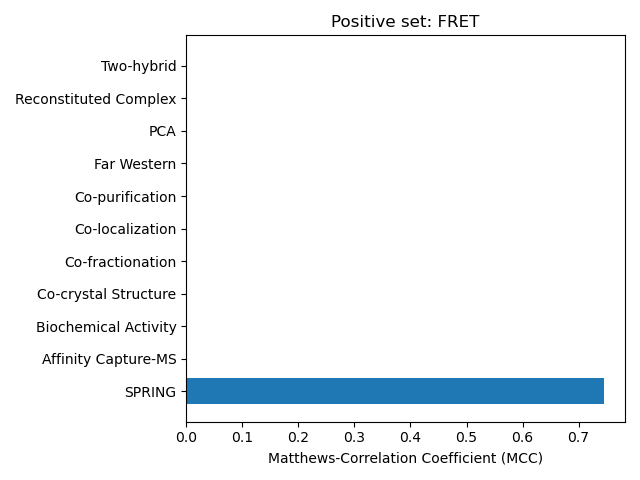
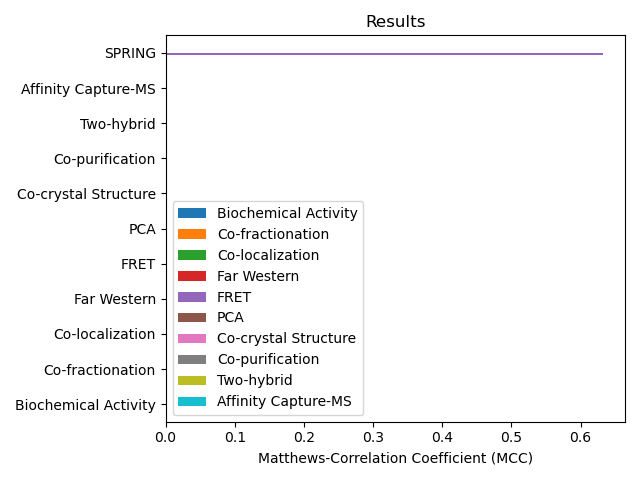
Create mcc plot with all available methods

diff --git a/spring_mcc.py b/spring_mcc.py
@@ -1,9 +1,20 @@
 #! /usr/bin/env python
 import argparse
 import math
+import pandas as pd
 from os.path import isfile
 import re
-from matplotlib import pyplot as plt
+
+METHODS = ["Biochemical Activity",
+           "Co-fractionation",
+           "Co-localization",
+           "Far Western",
+           "FRET",
+           "PCA",
+           "Co-crystal Structure",
+           "Co-purification",
+           "Two-hybrid",
+           "Affinity Capture-MS"]
 
 
 def getIds(rawIds):
@@ -251,56 +262,57 @@ def main(args):
         filterB = filterA
 
     # identify biogrid filter options
-    filterValues = list()
-    filterValues.append([11, args.method])
+    performance = dict()
+    for methodReference in METHODS:
 
-    # process biogrid database
-    print("Loading positive set from BioGRID file...")
-    positive, positiveCount = getReference(args.biogrid, aCol=23, bCol=26,
-                                           separator="\t", filterA=filterA,
-                                           filterB=filterB, skipFirstLine=True,
-                                           filterValues=filterValues)
+        # process biogrid database
+        print("Loading positive set from BioGRID file (%s)..." % methodReference)
+        filterValues = [[11, methodReference]]
+        positive, positiveCount = getReference(args.biogrid, aCol=23, bCol=26,
+                                               separator="\t", filterA=filterA,
+                                               filterB=filterB, skipFirstLine=True,
+                                               filterValues=filterValues)
 
-    # estimate negative set
-    negative = getNegativeSet(args, filterA, filterB, positiveCount)
+        # estimate negative set
+        negative = getNegativeSet(args, filterA, filterB, positiveCount)
 
-    # get prediction results
-    print("Loading prediction file...")
-    prediction, _ = getReference(args.input, scoreCol=2, minScore=0.8)
-    mcc = getMCC(prediction, positive, positiveCount, negative)
-    yValues = [mcc]
-    yTicks = ["SPRING"]
+        # evaluate other methods
+        yValues = list()
+        for method in METHODS:
+            if methodReference != method:
+                print("Method: %s" % method)
+                filterValues = [[11, method]]
+                prediction, _ = getReference(args.biogrid, aCol=23, bCol=26,
+                                             separator="\t", filterA=filterA,
+                                             filterB=filterB, skipFirstLine=True,
+                                             filterValues=filterValues)
+                mcc = getMCC(prediction, positive, positiveCount, negative)
+                yValues.append(mcc)
+            else:
+                yValues.append(0.0)
 
-    # identify biogrid filter options
-    for method in ["Affinity Capture-MS",
-                   "Biochemical Activity",
-                   "Co-crystal Structure",
-                   "Co-fractionation",
-                   "Co-localization",
-                   "Co-purification",
-                   "Far Western",
-                   "FRET",
-                   "PCA",
-                   "Reconstituted Complex",
-                   "Two-hybrid"]:
-        if args.method != method:
-            print("Method: %s" % method)
-            filterValues = [[11, method]]
-            prediction, _ = getReference(args.biogrid, aCol=23, bCol=26,
-                                         separator="\t", filterA=filterA,
-                                         filterB=filterB, skipFirstLine=True,
-                                         filterValues=filterValues)
-            mcc = getMCC(prediction, positive, positiveCount, negative)
-            yValues.append(mcc)
-            yTicks.append(method)
+        # add results to performance dication
+        performance[methodReference] = yValues
+
+        # get and append prediction results
+        print("Loading prediction file...")
+        prediction, _ = getReference(args.input, scoreCol=2, minScore=0.0)
+        mcc = getMCC(prediction, positive, positiveCount, negative)
+        performance[methodReference].append(mcc)
+
+    # build yTicks
+    yTicks = METHODS[:]
+    yTicks.append("SPRING")
 
     # create plot
     print("Producing plot data...")
     print("Total count in prediction file: %d." % len(prediction))
     print("Total count in positive file: %d." % len(positive))
-    plt.xlabel("Matthews-Correlation Coefficient (MCC)")
-    plt.title("Positive set: %s" % args.method)
-    plt.barh(yTicks, yValues)
+    df = pd.DataFrame(performance, index=yTicks)
+    ax = df.plot.barh()
+    ax.set_title(args.experiment)
+    ax.set_xlabel("Matthews-Correlation Coefficient (MCC)")
+    plt = ax.get_figure()
     plt.tight_layout()
     plt.savefig(args.output, format="png")
 
@@ -314,7 +326,7 @@ if __name__ == "__main__":
     parser.add_argument('-rb', '--region_b', help='Second subcellular location', required=False)
     parser.add_argument('-n', '--negative', help='Negative set (2-columns)', required=False)
     parser.add_argument('-t', '--throughput', help='Throughput (low/high)', required=False)
-    parser.add_argument('-m', '--method', help='Method e.g. Two-hybrid', required=False)
+    parser.add_argument('-e', '--experiment', help='Experiment Title', required=False, default="Results")
     parser.add_argument('-o', '--output', help='Output (png)', required=True)
     args = parser.parse_args()
     main(args)
